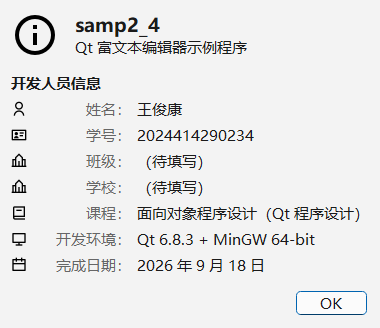
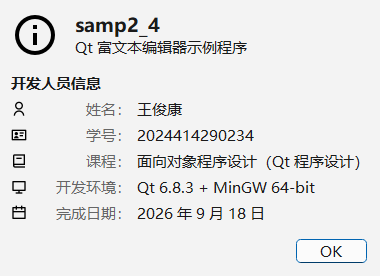
About 窗口去掉班级、学校两行
- qwmainwind.cpp：DevInfo 只保留姓名、学号、课程等，对话框相应少两行
- res.qrc：移除不再使用的 school-line.svg 图标
- docs/images：重新生成 About 窗口截图

diff --git a/samp2_4/qwmainwind.cpp b/samp2_4/qwmainwind.cpp
@@ -20,13 +20,11 @@
 
 //-----------------------------------------------------------------------------
 // 开发者信息：About 窗口里显示的内容就是下面这几行，
-// 请把“姓名、学号、班级、学校”改成自己的真实信息后再提交。
+// 请把“姓名、学号”改成自己的真实信息后再提交。
 //-----------------------------------------------------------------------------
 namespace DevInfo {
 const char *const kName   = "王俊康";
 const char *const kId     = "2024414290234";
-const char *const kClass  = "（待填写）";               // TODO: 改成自己的班级
-const char *const kSchool = "（待填写）";               // TODO: 改成自己的学校
 const char *const kCourse = "面向对象程序设计（Qt 程序设计）";//课程名称
 }
 
@@ -260,8 +258,6 @@ void QWMainWind::on_actAbout_triggered()
     int row = 0;
     addInfoLine(infoLayout, row++, ":/icons/user-line.svg",     tr("姓名"), DevInfo::kName);
     addInfoLine(infoLayout, row++, ":/icons/id-card-line.svg",  tr("学号"), DevInfo::kId);
-    addInfoLine(infoLayout, row++, ":/icons/school-line.svg",   tr("班级"), DevInfo::kClass);
-    addInfoLine(infoLayout, row++, ":/icons/school-line.svg",   tr("学校"), DevInfo::kSchool);
     addInfoLine(infoLayout, row++, ":/icons/book-2-line.svg",   tr("课程"), DevInfo::kCourse);
     addInfoLine(infoLayout, row++, ":/icons/computer-line.svg", tr("开发环境"),
                 QString("Qt %1 + MinGW 64-bit").arg(QT_VERSION_STR));

diff --git a/README.md b/README.md
@@ -72,7 +72,7 @@ release\samp2_4.exe
 | --- | --- |
 | `samp2_4/qwmainwind.ui` | 新增 Action `actAbout`（文字“关于”）、新增顶级菜单 `menu_4`（“帮助”），并把 `actAbout` 放到工具栏 `mainToolBar` 的第 2 个位置 |
 | `samp2_4/qwmainwind.h` | 声明槽函数 `on_actAbout_triggered()` |
-| `samp2_4/qwmainwind.cpp` | 实现 About 窗口；在文件顶部用 `DevInfo` 命名空间集中保存姓名、学号、班级、学校、课程等个人信息 |
+| `samp2_4/qwmainwind.cpp` | 实现 About 窗口；在文件顶部用 `DevInfo` 命名空间集中保存姓名、学号、课程等个人信息 |
 | `samp2_4/res.qrc` | 新增 `/icons` 资源前缀，加入 RemixIcon 图标 |
 | `samp2_4/icons/svg/` | 从 RemixIcon 图标库下载的 SVG 图标 |
 
